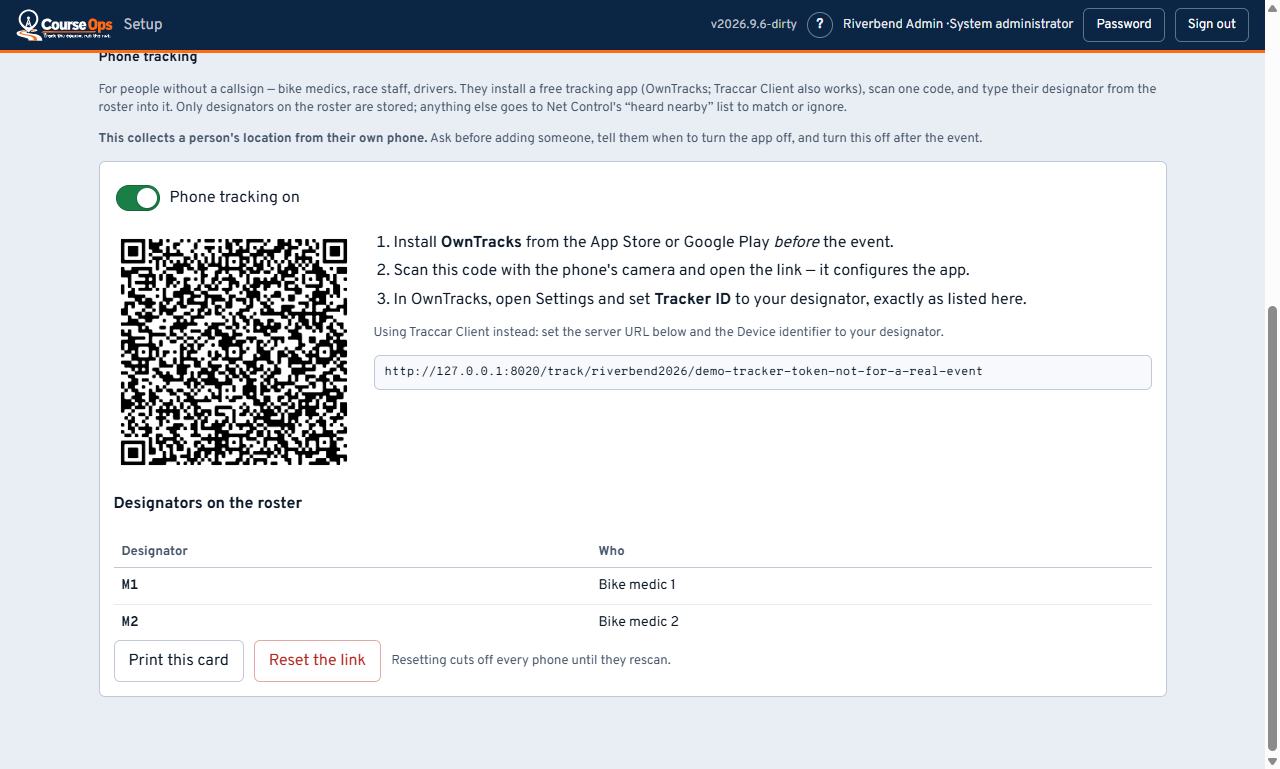
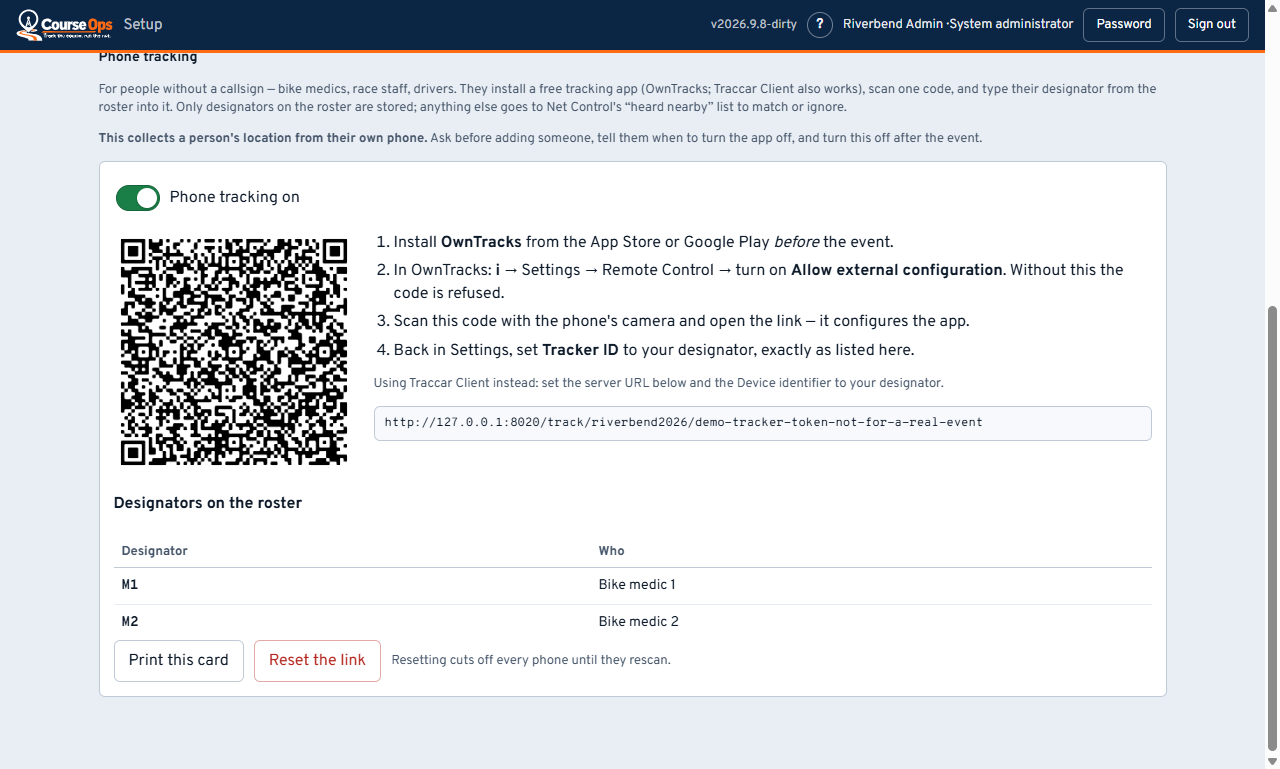
fix: OwnTracks refuses the QR until Allow external configuration is on
Found on the first real iPhone: the scan works and OwnTracks answers
'URI or file configuration not allowed'. Recent versions reject
owntracks:///config links unless Settings -> Remote Control -> Allow
external configuration is already on, on iOS and Android alike. The card
and both guides carry that switch as the step before the scan.

Claude-Session: https://claude.ai/code/session_01QkbtsMnQEe8HZ7xyxXHYHB

Changed region(s): [[0.2812, 0.3433, 0.875, 0.5618]]

diff --git a/src/courseops/static/setup.html b/src/courseops/static/setup.html
@@ -532,11 +532,13 @@
             <ol>
               <li>Install <strong>OwnTracks</strong> from the App Store or
                 Google Play <em>before</em> the event.</li>
+              <li>In OwnTracks: <strong>i</strong> → Settings → Remote
+                Control → turn on <strong>Allow external
+                configuration</strong>. Without this the code is refused.</li>
               <li>Scan this code with the phone's camera and open the link
                 — it configures the app.</li>
-              <li>In OwnTracks, open Settings and set
-                <strong>Tracker ID</strong> to your designator, exactly as
-                listed here.</li>
+              <li>Back in Settings, set <strong>Tracker ID</strong> to your
+                designator, exactly as listed here.</li>
             </ol>
             <p class="muted">Using Traccar Client instead: set the server
               URL below and the Device identifier to your designator.</p>

diff --git a/src/courseops/guides/phone-tracking.md b/src/courseops/guides/phone-tracking.md
@@ -27,19 +27,32 @@ When it asks for location permission, choose **Always** (or *Allow all the
 time*). "While using the app" means it stops the moment your phone goes in
 your pocket, and that is the whole reason for the app.
 
-## 2. Scan the card
+## 2. Let the app accept a configuration
+
+OwnTracks refuses configuration links unless you say it may take them - a
+sensible default, since a link can reconfigure the whole app. Once, before
+you scan:
+
+1. Open OwnTracks and tap **i** (top left), then **Settings**.
+2. Scroll to **Remote Control** and turn on **Allow external
+   configuration**. Confirm the warning.
+
+Skip this and scanning the card shows *URI or file configuration not
+allowed* and does nothing.
+
+## 3. Scan the card
 
 The club will have a printed card, or send you a picture of it. Point your
 phone camera at the code and tap the link that appears. OwnTracks opens and
-asks whether to apply the configuration - say yes.
+applies the configuration.
 
 That is the event's address. You do not need to type anything from it.
 
-## 3. Set your designator
+## 4. Set your designator
 
-Open OwnTracks' settings (the gear, or the menu). Find **Tracker ID** and
-type the designator printed beside your name on the card - `M1`, `BIKE2`,
-whatever the club chose for you.
+Back in OwnTracks' settings, find **Tracker ID** and type the designator
+printed beside your name on the card - `M1`, `BIKE2`, whatever the club
+chose for you.
 
 Type it exactly as printed. Capitals, spaces and dashes do not matter, but
 `Medic 1` is not `M1` - if you make one up, Net Control sees an unknown
@@ -59,6 +72,9 @@ That is the setup. Leave the app installed.
 
 ## If Net Control cannot see you
 
+- Did the scan actually take? *URI or file configuration not allowed*
+  means step 2 was skipped - turn on **Allow external configuration** and
+  scan again.
 - Is the app running, and did you open it once today?
 - Location permission set to **Always**?
 - Any signal? The app keeps your positions while you are out of coverage

diff --git a/CLAUDE.md b/CLAUDE.md
@@ -1143,6 +1143,7 @@ Rules that keep this honest:
 
 Last 10 entries; full record in `CHANGELOG.md`.
 
+- **2026-09-15** Fixed: the OwnTracks QR was refused on a real iPhone until *Settings → Remote Control → Allow external configuration* is on; it is now the step before the scan on the card and in the guides.
 - **2026-09-15** `/help/phone-tracking`: the guide for the person being tracked - install, permission Always, scan, set Tracker ID, turn it off after.
 - **2026-09-15** Phone tracking (#6): a roster entry can be tracked by a phone app under a designator; one URL and one QR per event on the Tracking tab, the roster as the allowlist, reported time stored rather than arrival. `docs/phone-tracking.md`.
 - **2026-09-15** Setup is two levels: Configure on the Events list opens an event (name as heading, ‹ All events back, hash-addressed); the twelve-tab bar and "Pick an event first" are gone.
@@ -1152,4 +1153,3 @@ Last 10 entries; full record in `CHANGELOG.md`.
 - **2026-09-14** Fixed: turning Tracking on for an event with nothing to listen for exited the server and boot-looped; the switch now refuses, and persists only after the feed starts.
 - **2026-09-14** Fixed: staged import features and access links were addressed by bare id - one event's admin could reach another's. Both scoped by event.
 - **2026-09-14** Fixed: correcting a callsign on the Roster tab made a second roster row; a setup edit is a RENAME (status log follows), binding stays NCS's.
-- **2026-09-14** Sign-in hashes off the event loop with a per-username/IP limiter; the first account needs the setup code printed at startup.

diff --git a/docs/phone-tracking.md b/docs/phone-tracking.md
@@ -123,9 +123,18 @@ The issue left three things unverified. Two are settled from the booklet:
    guide says install first, and the briefing email a week out matters more
    than the card. Not verified on a phone; expected.
 
-**Not yet done on a real phone:** scanning the printed card, on iOS and on
-Android, and watching a fix arrive. That is the rehearsal step for the
-first event that uses this, and `docs/PLAN.md` carries it as a gap.
+**Found on a real iPhone (2026-09-15):** the scan itself works, and
+OwnTracks answers *URI or file configuration not allowed*. Recent versions
+reject `owntracks:///config` links unless **Settings → Remote Control →
+Allow external configuration** is already on - a deliberate default, since
+a link can reconfigure the whole app, and identical on Android
+(owntracks/ios#910, owntracks/android#2318). So the card and the guides
+carry that switch as the step before the scan. It cannot be set by the
+link itself: the security preferences are exactly the ones a config file
+may not change.
+
+**Still not seen on a real phone:** a fix arriving after the switch and the
+scan, on iOS and on Android. `docs/PLAN.md` carries it.
 
 ## Offline buffering, and the trap it brings
 

diff --git a/docs/PLAN.md b/docs/PLAN.md
@@ -777,10 +777,11 @@ Things discovered but not yet acted on. Each is a real constraint, not a wish.
   is the allowlist, designators are normalised on both sides, the unknown
   ones go to Net Control's nearby list, and the reported timestamp - never
   arrival - is what is stored, because both apps buffer through dead zones.
-  **Still a gap: nobody has scanned the printed card on a real phone yet.**
-  The OwnTracks field (`tid`) and the config link are verified against the
-  documentation only; the first event to use this rehearses it a week out,
-  on an iPhone and an Android, and watches a fix arrive.
+  **Still a gap: no fix has arrived from a real phone yet.** The first scan
+  on an iPhone (2026-09-15) found OwnTracks refusing the config link until
+  *Settings → Remote Control → Allow external configuration* is on - now a
+  step on the card. The first event to use this rehearses the rest a week
+  out, on an iPhone and an Android, and watches a fix arrive.
 - ~~**Course notes have no export**~~ - done 2026-09-05, issue #7. The report
   page (`report.py`) is one printable page for the race lead: pickup counts by
   stop and window, and every course note with a small map, no names.

diff --git a/src/courseops/guides/setup-race-week.md b/src/courseops/guides/setup-race-week.md
@@ -64,10 +64,14 @@ send them that link with the picture of the card, the week before. In short:
 
 1. Installs **OwnTracks** (free, iOS and Android) *before* the event - a
    scanned code does nothing on a phone without the app.
-2. Scans the code with the phone camera and opens the link. That configures
+2. In OwnTracks, turns on **Settings → Remote Control → Allow external
+   configuration**. The app refuses configuration links until this is on -
+   *URI or file configuration not allowed* is what a skipped step looks
+   like.
+3. Scans the code with the phone camera and opens the link. That configures
    the app with the event's address.
-3. Opens the app's settings and sets **Tracker ID** to their designator,
-   exactly as printed.
+4. Sets **Tracker ID** in the same settings to their designator, exactly as
+   printed.
 
 **Traccar Client** works too: set the server URL from the card and the *Device
 identifier* to the designator. Its QR step is not something we can promise, so

diff --git a/CHANGELOG.md b/CHANGELOG.md
@@ -11,6 +11,16 @@ month, PATCH counting releases in that month from 0. Before that they were
 
 ## [Unreleased]
 
+### Fixed
+
+- **Scanning the phone tracking card did nothing on an iPhone.** OwnTracks
+  answered *URI or file configuration not allowed*: recent versions refuse
+  `owntracks:///config` links unless **Settings → Remote Control → Allow
+  external configuration** is already on, on iOS and Android alike - the
+  first thing the real-phone test found. The card and both guides now carry
+  that switch as the step before the scan, and the volunteer guide names the
+  error so someone who skipped it knows what they are looking at.
+
 ## [2026.9.8] - 2026-09-15
 
 ### Added
